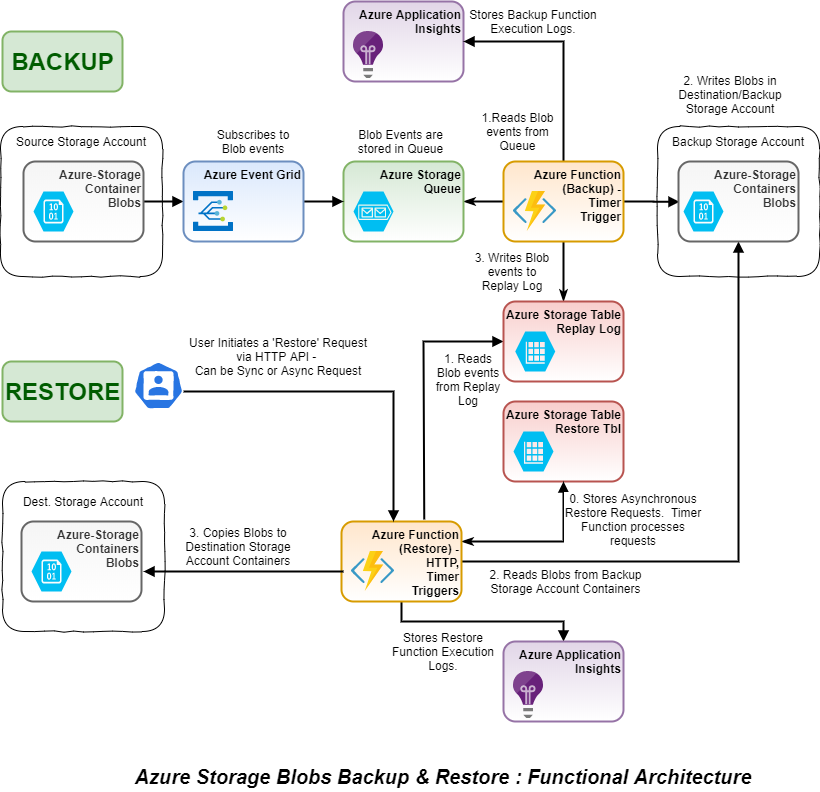
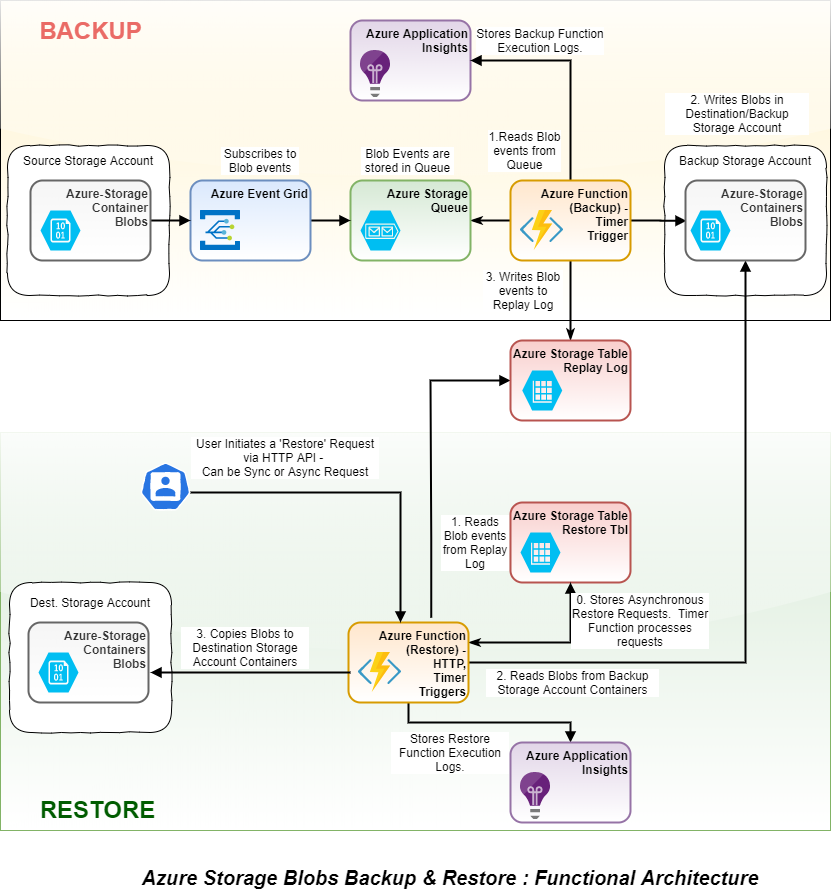
Added screenshots and updated README.md

diff --git a/README.md b/README.md
@@ -1,6 +1,6 @@
 ---
 Languages:
-- C #
+- C#
 Products:
 - Azure
 Description: "Azure Blob Storage doesn't currently offer an out of box solution for backing up and restoring block blobs."
@@ -9,9 +9,11 @@ urlFragment: storage-blob-backup-restore
 
 # Backup and Restore Solution for Azure Storage Blobs
 
-Azure Blob Storage currently doesn't offer an out of box solution for backing up and restoring block blobs. This project can be used to perform weekly full and daily incremental back-ups of storage accounts containing block blobs. 
+Azure Blob Storage currently doesn't offer an out of box solution for backing up and restoring block blobs. This project can be used to perform weekly full and daily incremental back-ups of storage accounts containing block blobs.
 
-In case of a disaster, the solution also provides an option to restore the Azure Storage Account. 
+In case of a disaster, the solution also provides an option to restore blobs to the specified Storage Account.
+
+Since all components in this solution are Azure's first-party services, important blob properties such as Created & LastModified time, and the **metadata** of each blob object will be preserved during backup and restore.
 
 ## Features
 This project framework provides the following features:
@@ -20,12 +22,36 @@ This project framework provides the following features:
 
 ## Functional Architecture
 
+In the following diagram:
+* The upper half represents the **BACKUP** workflow of the solution: _Source blobs -> Event Grid -> Queue -> Backup Function -> Backup_.
+* The bottom half represents the **RESTORE** workflow: _Initiating restore -> Restore Function reads from Replay logs -> read & copy blobs from Backup storage account to Restore storage account_.
+* The _Replay Log_ inside the Table Storage is where all the blob operations are stored and will be _replayed_ during the process to restore blobs.
+* Each restore operation is stored in the _Restore Table_.
+
 ![alt tag](./images/az-storage-backup-restore.PNG)
 
-## Instructions to Set-up Solution
-### Set up Event Grid for Source Storage account.
-* Create an Azure storage queue first to store the event grid events. Please note this storage account containing the storage queue cannot be connected to VNET.
-* Create an event subscription for the storage account by firing the below command in the Azure Command Shell. Please note, this feature is still in preview and you will have to install the Event Grid extension for Azure CLI. You can install it with _az extension add --name eventgrid_. This step will make sure all the create, replace and delete events are recorded in the configured Azure Storage Queue. **Please note modifications to a BLOB are not recorded hence our solution won’t be able to support the same.**
+## Instructions to configure this solution
+
+### Create storage accounts for Source, Backup and Restore
+Unless otherwise specified, we use **general-purpose v2** storage accounts in this solution. Storage account **v1** does not support integration with Event Grid.
+1. If you don't already have an existing source storage account for your blobs, create a new storage account "_mysourceblobs_". This is the source blob storage you want to protect with this backup solution.
+1. Create a new backup storage account "_mybackupblobs_" in a different Azure region from "_mysourceblobs_".
+1. In the same Azure region as your source storage account, create a new storage account "_myrestoreblobs_". This is the storage account where we will restore the blobs from backup.
+1. You should have 3 storages accounts before proceeding to the next section:
+![alt tag](./images/portal-rg-storageaccounts.png)
+
+### Configure Storage Queue and Event Grid for blob events
+
+In this section, we will configure Blob events so when there's a CRUD operation to the blobs, it will trigger an event. Blob storage events are pushed using Azure Event Grid to Queue Storage.
+
+1. In your storage account "_mybackupblobs_", create a [Queue Storage](https://docs.microsoft.com/en-us/azure/storage/queues/storage-queues-introduction) to store the event grid events. Please note this storage account containing the storage queue cannot be connected to VNET.
+![alt tag](./images/portal-rg-queue-blob-events.png)
+
+2. Go to your source storage account "_mysourceblobs_". Configure blob events and filter Event Grid event subscription for event types **Blob Created** and **Blob Deleted** (both types are enabled by default).
+![alt tag](./images/portal-rg-storageevents.png)
+![alt tag](./images/portal-rg-storageeventgrid.png)
+
+3. _Alternatively_, you can create an event subscription for the storage account by firing the below command in [Azure Cloud Shell](https://shell.azure.com). Please note, this feature is still in preview and you will have to install the Event Grid extension for Azure CLI. You can install it with _az extension add --name eventgrid_. This step will make sure all the create, replace and delete events are recorded in the configured Azure Storage Queue. **Please note modifications to a BLOB are not recorded hence our solution won’t be able to support the same.**
 
 ```
 az eventgrid event-subscription create \
@@ -36,9 +62,15 @@ az eventgrid event-subscription create \
 --endpoint "/subscriptions/<<subscriptionid>>/resourcegroups/<<resourcegroupname>>/providers/Microsoft.Storage/storageAccounts/<<storageaccountname>>/queueservices/default/queues/<<queuename>>"
 ```
 
+### Configure Storage Table for Replay logs
+Replay logs are the blob operation logs (such as create or delete) stored in Table Storage while the backup blobs are being created. These transactions will be _replayed_ during the process of restoring blobs from backup.
+
+* Create a Table Storage under storage account "_mybackupblobs_":
+![alt tag](./images/portal-rg-storagetable.png)
+
 ### Set up .Net Core Projects to perform incremental backup and restore backup.
 
-The sample solution has three projects in it.
+The sample solution has three projects in it. You can deploy them as Azure Functions.
 
 * ##### backup.core	
 This project does not require any modification. It contains the logic of backup, and restore.
